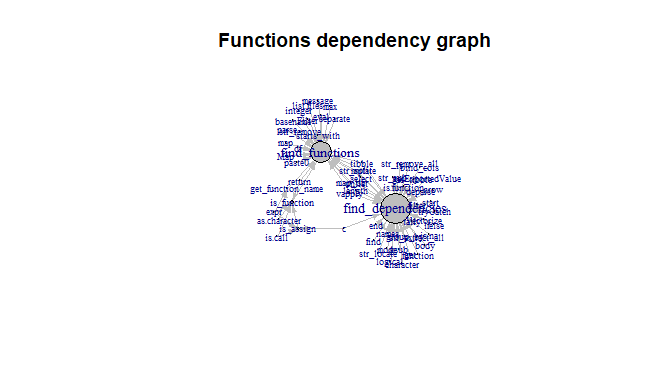
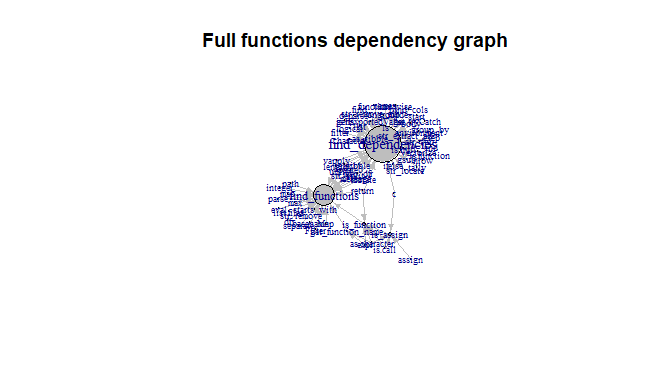
New find_dependencies feature, added vignette

Changed region(s): [[0.375, 0.25, 0.6875, 0.7188], [0.2812, 0.0625, 0.7812, 0.1562]]

diff --git a/README.md b/README.md
@@ -35,17 +35,18 @@ library(functiondepends)
 ``` r
 # Create environment for loaded functions 
 envir <- new.env()
-# Seach recursively current directory
+# Search recursively current directory
 functions <- find_functions(".", envir = envir, recursive = TRUE)
+```
+
+``` r
 functions
-#> # A tibble: 5 x 3
-#>   Level1 Source              Function         
-#>   <chr>  <chr>               <chr>            
-#> 1 R      find-dependencies.R find_dependencies
-#> 2 R      find-functions.R    is_function      
-#> 3 R      find-functions.R    get_function_name
-#> 4 R      find-functions.R    is_assign        
-#> 5 R      find-functions.R    find_functions
+#>   Level1              Level2          Function
+#> 1      R find-dependencies.R find_dependencies
+#> 2      R    find-functions.R       is_function
+#> 3      R    find-functions.R get_function_name
+#> 4      R    find-functions.R         is_assign
+#> 5      R    find-functions.R    find_functions
 ```
 
 Search for dependencies of function `find_functions` within parsed
@@ -55,34 +56,61 @@ functions:
 dependency <- find_dependencies("find_functions", envir = envir, in_envir = TRUE)
 dependency
 #> # A tibble: 2 x 5
-#>   Source            SourceRep Namespace Target         TargetInDegree
-#>   <chr>                 <int> <lgl>     <chr>                   <int>
-#> 1 get_function_name         1 NA        find_functions              2
-#> 2 is_function               1 NA        find_functions              2
+#>   Source            SourceRep SourceNamespace Target         TargetInDegree
+#>   <chr>                 <int> <chr>           <chr>                   <int>
+#> 1 get_function_name         1 user-defined    find_functions              2
+#> 2 is_function               1 user-defined    find_functions              2
 ```
 
-Search for all dependencies of function:
+Note that `SourceNamespace` column has value `user-defined` as the
+functions are searched within source of the package.
+
+Search for all dependencies of `find_functions` function:
 
 ``` r
 library(ggplot2)
 library(dplyr)
 
-dependency <- find_dependencies("find_dependencies", envir = envir, in_envir = FALSE)
+dependency <- find_dependencies("find_functions", envir = envir, in_envir = FALSE)
 dependency %>% 
   slice_max(SourceRep, n = 10) %>% 
   mutate(Source = reorder(Source, SourceRep)) %>% 
-  ggplot(aes(x = Source, y = SourceRep, fill = Namespace)) +
+  ggplot(aes(x = Source, y = SourceRep, fill = SourceNamespace)) +
   geom_col() +
   coord_flip() +
-  labs(caption = "Top 10 most repeated function calls in 'find_dependencies' function.")
+  labs(caption = "Top 10 most repeated calls in 'find_functions'.")
 ```
 
 <img src="man/figures/README-functions_in_path-1.png" width="100%" />
 
-``` r
-library(ggplot2)
-library(dplyr)
+Note that name `df` is often used to store object of type `data.frame`.
+`df` is also a name of F distribution density function from `stats`
+package. If you suspect that given function ought not to use a specific
+package, see the source code of function to check the context. To do so,
+one can execute `find_dependencies` function with `add_info` argument
+set to `TRUE`.
 
+``` r
+library(tidyr)
+
+dependency <- find_dependencies("find_functions", envir = envir, in_envir = FALSE, add_info = TRUE)
+dependency %>% 
+  filter(SourceNamespace == "stats") %>% 
+  select(Source, SourcePosition, SourceContext) %>% 
+  unnest(c(SourcePosition, SourceContext)) 
+#> # A tibble: 5 x 3
+#>   Source SourcePosition SourceContext                                           
+#>   <chr>           <dbl> <chr>                                                   
+#> 1 df                  6 "    df <- purrr::map_dfr(sourceFiles, ~{"              
+#> 2 df                 15 "    source_name <- basename(df$Path)"                  
+#> 3 df                 17 "    df <- df %>% dplyr::mutate(Path = stringr::str_rem~
+#> 4 df                 18 "    paths <- stringr::str_split(df$Path, \"/|\\\\\\\\\~
+#> 5 df                 20 "    tidyr::separate(df, \"Path\", into = paste0(\"Leve~
+```
+
+One can see that indeed `df` is not a call to function `stats::df`.
+
+``` r
 dependency <- find_dependencies(unique(functions$Function), envir = envir, in_envir = FALSE)
 dependency %>% 
   distinct(Target, TargetInDegree) %>%
@@ -96,19 +124,72 @@ dependency %>%
 <img src="man/figures/README-target_degree-1.png" width="100%" />
 
 ``` r
-library(igraph)
-library(dplyr)
+dependency <- find_dependencies(unique(functions$Function), envir = envir, in_envir = FALSE)
+dependency %>% 
+  group_by(SourceNamespace) %>% 
+  tally(name = "Count") %>% 
+  slice_max(Count, n = 10) %>% 
+  mutate(SourceNamespace = reorder(SourceNamespace, Count)) %>% 
+  ggplot(aes(x = SourceNamespace, y = Count)) +
+  geom_col() +
+  coord_flip() +
+  labs(caption = "Top 10 used namespaces.")
+```
 
+<img src="man/figures/README-namespace_count-1.png" width="100%" />
+
+See which user-defined functions depend most on other user-defined
+functions within searched codebase.
+
+``` r
+dependency <- find_dependencies(unique(functions$Function), envir = envir, in_envir = TRUE)
+dependency %>% 
+  distinct(Target, TargetInDegree) %>% 
+  arrange(-TargetInDegree)
+#> # A tibble: 5 x 2
+#>   Target            TargetInDegree
+#>   <chr>                      <dbl>
+#> 1 find_functions                 2
+#> 2 is_function                    1
+#> 3 find_dependencies              0
+#> 4 get_function_name              0
+#> 5 is_assign                      0
+```
+
+``` r
+library(igraph)
+
+edges <- dependency %>% 
+  select(Source, Target) %>% 
+  filter(!is.na(.))
+
+vertices <- unique(c(dependency$Source, dependency$Target))
+vertices <- vertices[!is.na(vertices)]
+
+g <- graph_from_data_frame(d = edges, vertices = vertices)
+deg <- degree(g, mode = "in")
+V(g)$size <- deg * 10 + 5
+V(g)$label.cex <- (degree(g, mode = "in", normalized = TRUE) + 1)
+
+plot(
+  g,
+  vertex.color = "grey",
+  edge.color = "grey",
+  edge.arrow.size = .4,
+  main = "Functions dependency graph"
+)
+```
+
+<img src="man/figures/README-unnamed-chunk-10-1.png" width="100%" />
+
+``` r
+dependency <- find_dependencies(unique(functions$Function), envir = envir, in_envir = FALSE)
 edges <- dependency %>% 
   select(Source, Target) %>% 
   filter(!is.na(.))
 vertices <- unique(c(edges$Source, edges$Target))
 
-g <- graph_from_data_frame(
-  d = edges, 
-  vertices = vertices,
-  directed = TRUE
-)
+g <- graph_from_data_frame(edges)
 deg <- degree(g, mode = "in")
 V(g)$size <- deg
 V(g)$label.cex <- (degree(g, mode = "in", normalized = TRUE) + 1) / 1.8
@@ -118,7 +199,7 @@ plot(
   vertex.color = "grey",
   edge.color = "grey",
   edge.arrow.size = .4,
-  main = "Functions dependency graph"
+  main = "Full functions dependency graph"
 )
 ```
 
